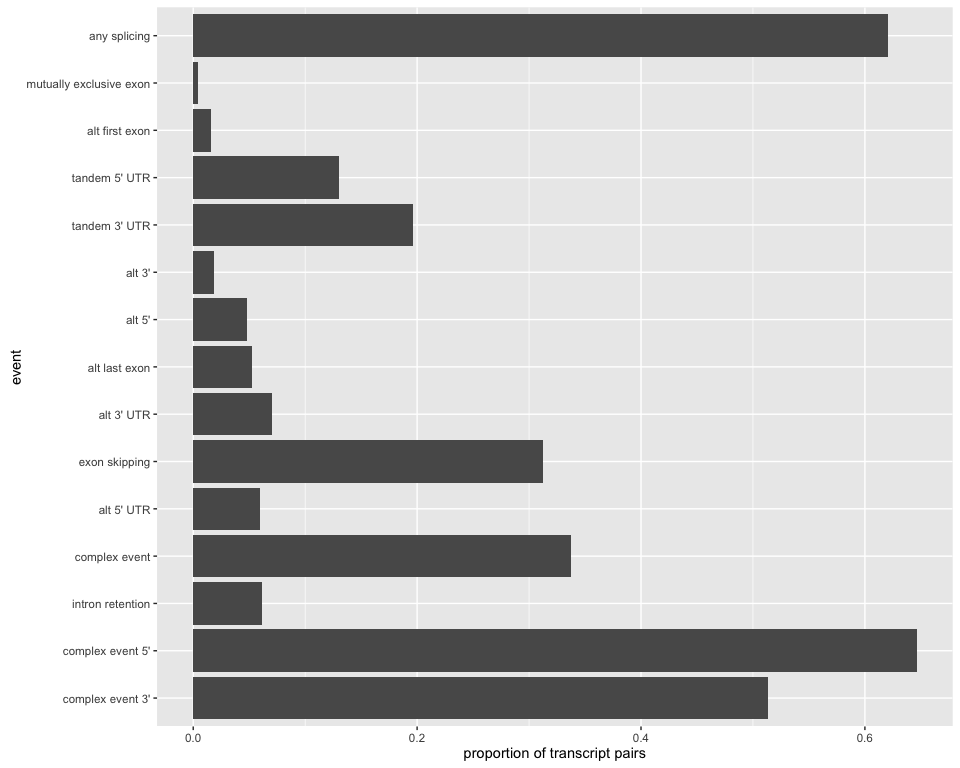
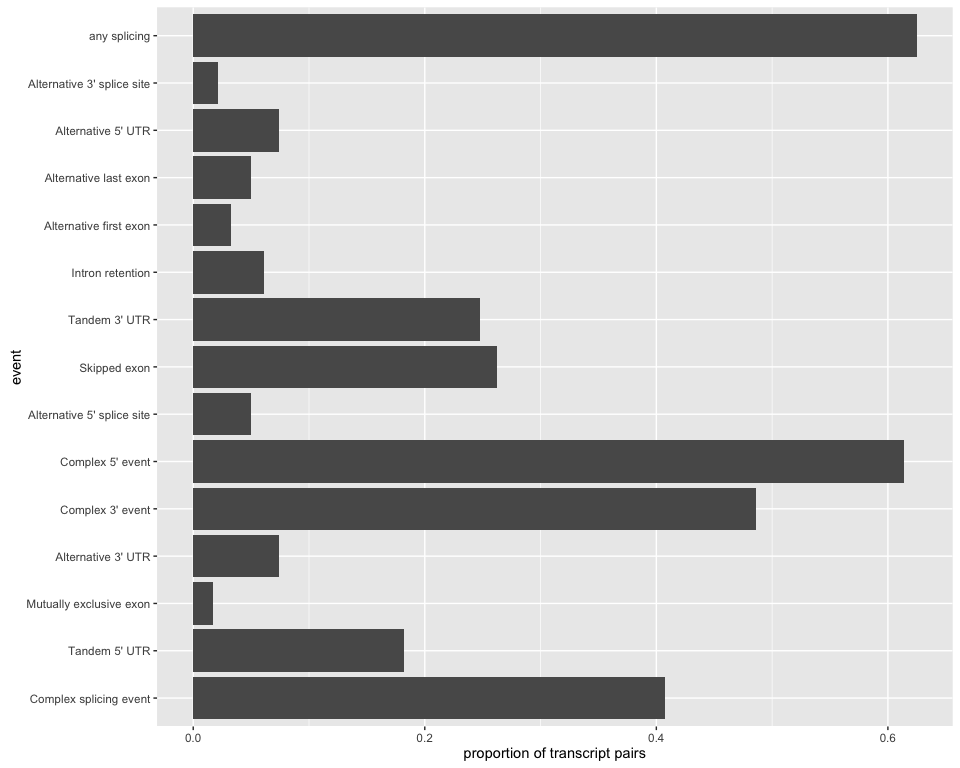
better names and more doc

diff --git a/docs/SplicingEventClassification.md b/docs/SplicingEventClassification.md
@@ -53,18 +53,18 @@ classify.events(tr.df, tr.str)
 
     ## $res
     ##   tr.first tr.second  classCode              classEvent
-    ## 1       t1        t2  3-4^,1-2^ mutually exclusive exon
-    ## 2       t1        t3 <>,1^),2^)           tandem 3' UTR
+    ## 1       t1        t2  3-4^,1-2^ Mutually exclusive exon
+    ## 2       t1        t3 <>,1^),2^)           Tandem 3' UTR
     ## 
     ## $stats
     ##                     event count prop prop.sqtl
-    ## 1 mutually exclusive exon     1  0.5       0.5
-    ## 2           tandem 3' UTR     1  0.5       0.5
+    ## 1 Mutually exclusive exon     1  0.5       0.5
+    ## 2           Tandem 3' UTR     1  0.5       0.5
     ## 3            any splicing     1   NA       0.5
 
 The result is a *list* with the event code and name for each pair, as well as a *data.frame* with the global count of each event in the data.
 
-It found *mutually exclusive exons* between transcript *t1* and *t2*. Transcripts *t1* and *t3* have the same CDS but differ in their last UTR, hence the event found being *tandem 3' UTR*.
+It found *Mutually exclusive exons* between transcript *t1* and *t2*. Transcripts *t1* and *t3* have the same CDS but differ in their last UTR, hence the event found being *Tandem 3' UTR*.
 
 Classifying transcripts from Genecode annotation.
 -------------------------------------------------
@@ -91,7 +91,7 @@ utr.str = data.frame(transId=utr.gr$transcript_id, st=start(utr.gr), end=end(utr
 tr.str = merge(cds.str, utr.str)
 ```
 
-Now let's pick randomly a thousand genes, and for each gene pick two transcripts. Of note, we remove genes with only one transcript.
+Now let's pick randomly a thousand genes, and for each gene pick two transcripts. We remove genes with only one transcript.
 
 ``` r
 gene.tr = unique(mcols(subset(genc.gr, type=="transcript"))[,c("gene_id","transcript_id")])
@@ -106,10 +106,10 @@ At this point we are ready, we have our two *data.frames*:
 str(tr.df)
 ```
 
-    ## Classes 'tbl_df', 'tbl' and 'data.frame':    438 obs. of  3 variables:
-    ##  $ gene_id  : chr  "ENSG00000000460.11" "ENSG00000006062.8" "ENSG00000006576.11" "ENSG00000007047.8" ...
-    ##  $ tr.first : chr  "ENST00000456684.1" "ENST00000376926.4" "ENST00000427986.2" "ENST00000262893.4" ...
-    ##  $ tr.second: chr  "ENST00000413811.2" "ENST00000344686.2" "ENST00000416283.2" "ENST00000538583.1" ...
+    ## Classes 'tbl_df', 'tbl' and 'data.frame':    461 obs. of  3 variables:
+    ##  $ gene_id  : chr  "ENSG00000000457.8" "ENSG00000001461.11" "ENSG00000002919.9" "ENSG00000003989.12" ...
+    ##  $ tr.first : chr  "ENST00000367772.4" "ENST00000428131.1" "ENST00000393405.1" "ENST00000004531.10" ...
+    ##  $ tr.second: chr  "" "" "ENST00000359238.2" "ENST00000398090.3" ...
 
 ``` r
 str(tr.str)
@@ -135,27 +135,27 @@ Now each transcript pair is annotated with an event code and name.
 head(ev.l$res)
 ```
 
-    ##              gene_id          tr.first         tr.second
-    ## 1 ENSG00000074356.10 ENST00000158149.3 ENST00000389005.3
-    ## 2  ENSG00000077009.7 ENST00000395034.2 ENST00000168977.1
-    ## 3  ENSG00000075429.4 ENST00000169565.3 ENST00000307139.3
-    ## 4  ENSG00000091262.8 ENST00000205558.5 ENST00000546056.1
-    ## 5 ENSG00000100242.11 ENST00000216064.4 ENST00000411587.2
-    ## 6  ENSG00000100883.7 ENST00000216774.6 ENST00000546080.1
-    ##                                                                                                                                                                      classCode
-    ## 1                                                                                 (16-,(1-2^3-4^5-6^7-8^9-10^11-12^13-14^15-;<>,2^3-4^5-6^7-8^9-10^11-12^13-14^15-16^17-18^,1^
-    ## 2                                                                                                                                                     1-2^3-,4-;<>,(1-2^3-,(4-
-    ## 3                                                                                                                                                   2^),1^3-4^);<>,1-2^),3-4^)
-    ## 4 (33-34^35-36^37-38^39-40^41-42^43-44^45-46^47-48^49-50^),(1-2^3-4^5-6^7-8^9-10^11-12^13-14^15-16^17-18^19-20^21-22^23-24^25-26^27-28^29-30^31-32^);<>,(,(1-2^;<>,3-4^),1-2^)
-    ## 5                                                                                                                          (6-,(1-2^3-4^5-;1-2^,;<>,(1-2^5-6^,(3-4^;<>,2^),1^)
-    ## 6                                                                                                                                                       (1-,(2-;1-2^,;<>,1^,2^
-    ##                                     classEvent
-    ## 1               complex event;complex event 5'
-    ## 2               complex event;complex event 5'
-    ## 3                  alt 3' UTR;complex event 3'
-    ## 4            complex event 3';complex event 5'
-    ## 5 complex event 5';exon skipping;tandem 3' UTR
-    ## 6 complex event;complex event 5';exon skipping
+    ##              gene_id           tr.first         tr.second
+    ## 1  ENSG00000000457.8  ENST00000367772.4                  
+    ## 2 ENSG00000001461.11  ENST00000428131.1                  
+    ## 3 ENSG00000003989.12 ENST00000004531.10 ENST00000398090.3
+    ## 4  ENSG00000071655.9  ENST00000156825.1 ENST00000434436.1
+    ## 5  ENSG00000213999.7  ENST00000162023.5 ENST00000444486.2
+    ## 6  ENSG00000064545.8  ENST00000162044.7 ENST00000450333.2
+    ##                                              classCode
+    ## 1                                                 <NA>
+    ## 2                                                 <NA>
+    ## 3                                            1-2^,3-4^
+    ## 4                            2^,1^;<>,(2-,(1-;<>,,1^2-
+    ## 5 1-2^,;1^),2^);<>,(2-,(1-;<>,1-2^3-4^,;<>,1-2^),3-4^)
+    ## 6                      1-2^3-4^,;<>,(2-,(1-;<>,1^),2^)
+    ##                                                                              classEvent
+    ## 1                                                                                  <NA>
+    ## 2                                                                                  <NA>
+    ## 3                                                               Mutually exclusive exon
+    ## 4                       Alternative 3' splice site;Complex splicing event;Tandem 5' UTR
+    ## 5 Alternative 3' UTR;Complex 3' event;Complex splicing event;Skipped exon;Tandem 5' UTR
+    ## 6                                    Complex splicing event;Tandem 3' UTR;Tandem 5' UTR
 
 There is also a summary *data.frame*. Here *count* (*prop*) represents the number (proportion) of time an event is observed relative to the other events. However *prop.sqtl* represents the proportion of sQTLs (or input pairs) that contain each event. These numbers are different because one sQTL (or transcript pair) can involve several events.
 
@@ -165,13 +165,13 @@ This summary *data.frame* is useful to plot the global distribution of the event
 head(ev.l$stats)
 ```
 
-    ##              event count       prop  prop.sqtl
-    ## 1 complex event 3'   225 0.20814061 0.51369863
-    ## 2 complex event 5'   283 0.26179463 0.64611872
-    ## 3 intron retention    27 0.02497687 0.06164384
-    ## 4    complex event   148 0.13691027 0.33789954
-    ## 5       alt 5' UTR    26 0.02405180 0.05936073
-    ## 6    exon skipping   137 0.12673451 0.31278539
+    ##                     event count        prop  prop.sqtl
+    ## 1  Complex splicing event   188 0.158116064 0.40780911
+    ## 2           Tandem 5' UTR    84 0.070647603 0.18221258
+    ## 3 Mutually exclusive exon     8 0.006728343 0.01735358
+    ## 4      Alternative 3' UTR    34 0.028595458 0.07375271
+    ## 5        Complex 3' event   224 0.188393608 0.48590022
+    ## 6        Complex 5' event   283 0.238015139 0.61388286
 
 ``` r
 library(ggplot2)
@@ -186,3 +186,48 @@ Appendix
 Here is an illustration of the different events we consider:
 
 ![Splicing events classification](splicingEventsClassification.png)
+
+R session
+---------
+
+``` r
+sessionInfo()
+```
+
+    ## R version 3.2.3 (2015-12-10)
+    ## Platform: x86_64-apple-darwin13.4.0 (64-bit)
+    ## Running under: OS X 10.10.5 (Yosemite)
+    ## 
+    ## locale:
+    ## [1] en_CA.UTF-8/en_CA.UTF-8/en_CA.UTF-8/C/en_CA.UTF-8/en_CA.UTF-8
+    ## 
+    ## attached base packages:
+    ## [1] stats4    parallel  stats     graphics  grDevices utils     datasets 
+    ## [8] methods   base     
+    ## 
+    ## other attached packages:
+    ##  [1] ggplot2_2.0.0        dplyr_0.4.3          GenomicRanges_1.22.3
+    ##  [4] GenomeInfoDb_1.6.1   IRanges_2.4.6        S4Vectors_0.8.7     
+    ##  [7] AnnotationHub_2.2.3  BiocGenerics_0.16.1  sQTLseekeR_2.1      
+    ## [10] rmarkdown_0.9.2     
+    ## 
+    ## loaded via a namespace (and not attached):
+    ##  [1] Rcpp_0.12.3                  plyr_1.8.3                  
+    ##  [3] compiler_3.2.3               BiocInstaller_1.20.1        
+    ##  [5] formatR_1.2.1                XVector_0.10.0              
+    ##  [7] tools_3.2.3                  zlibbioc_1.16.0             
+    ##  [9] digest_0.6.9                 gtable_0.1.2                
+    ## [11] RSQLite_1.0.0                evaluate_0.8                
+    ## [13] shiny_0.13.0                 DBI_0.3.1                   
+    ## [15] curl_0.9.4                   yaml_2.1.13                 
+    ## [17] httr_1.0.0                   stringr_1.0.0               
+    ## [19] knitr_1.12.3                 grid_3.2.3                  
+    ## [21] data.table_1.9.6             Biobase_2.30.0              
+    ## [23] R6_2.1.2                     AnnotationDbi_1.32.3        
+    ## [25] magrittr_1.5                 scales_0.3.0                
+    ## [27] htmltools_0.3                assertthat_0.1              
+    ## [29] colorspace_1.2-6             mime_0.4                    
+    ## [31] interactiveDisplayBase_1.8.0 xtable_1.8-0                
+    ## [33] httpuv_1.3.3                 labeling_0.3                
+    ## [35] stringi_1.0-1                munsell_0.4.2               
+    ## [37] lazyeval_0.1.10              chron_2.3-47
